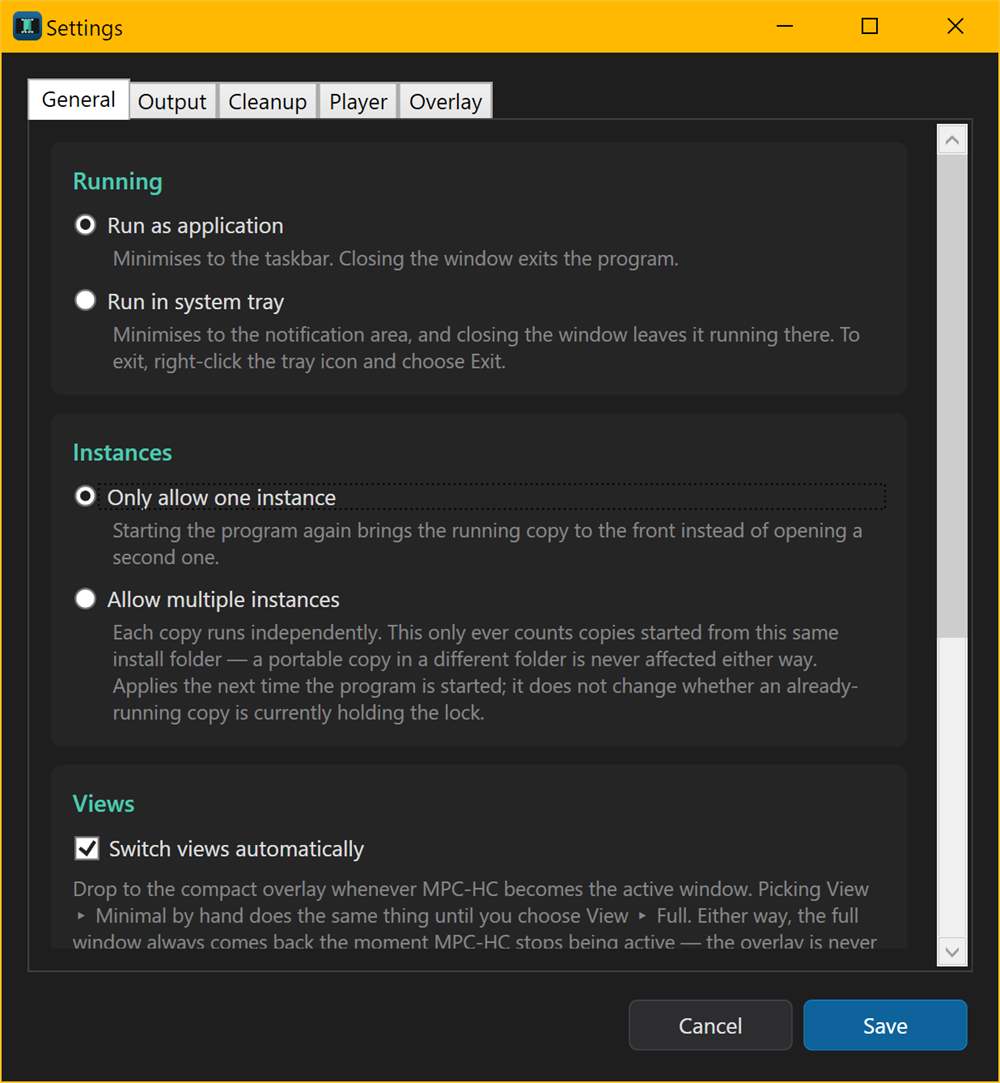
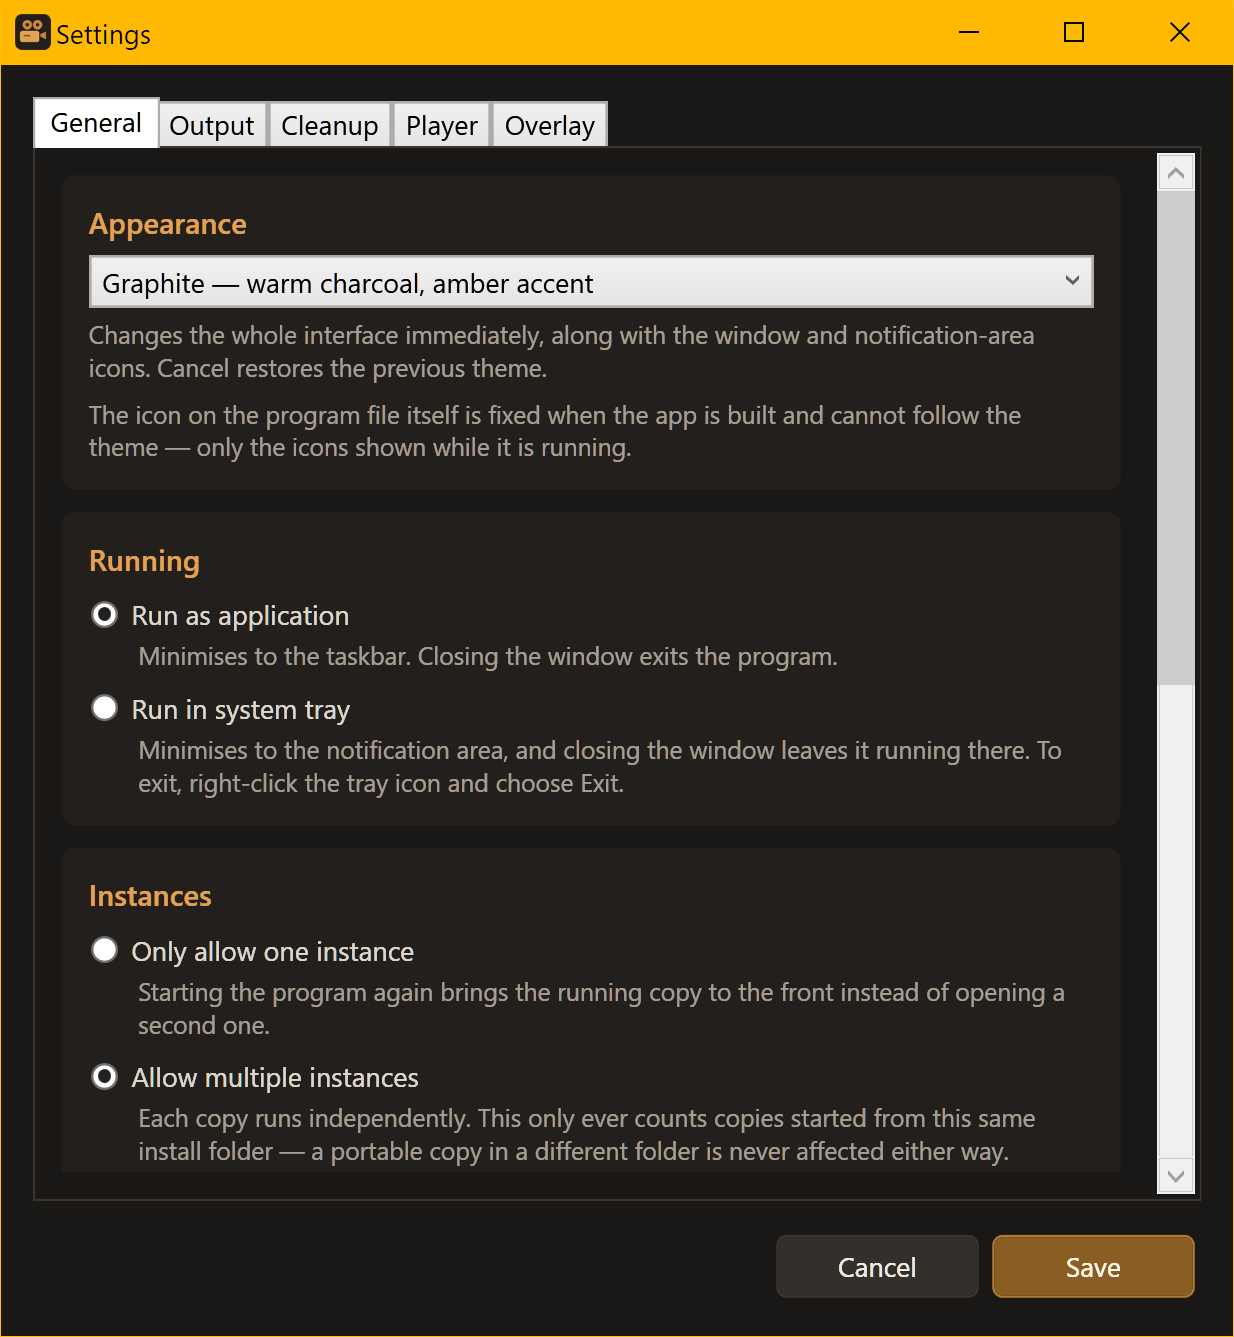
Update the README screenshots for 4.1
All four dated from before the theme system, so they showed the old teal
interface, the previous icon, and none of the 4.0 or 4.1 additions.

Captured from a throwaway install in a temp folder with its own settings and
three minutes of generated test footage, rather than from a working session:
the previous images were taken from real use, and a screenshot destined for a
public README should not be able to carry someone's filenames into it. Each
capture is bounded to a single window's own rectangle for the same reason - an
early attempt padded the crop past the window edge and picked up the desktop
behind it.

The main window shot now shows the audio waveform behind the timeline and the
selected clip's first and last frame, and the settings shot shows the theme
picker; alt text updated to match what is actually in each image.

diff --git a/README.md b/README.md
@@ -5,7 +5,7 @@ Modern rewrite of the original AutoHotkey **MPC-HC Video Editor v2.1**.
 Bookmark ranges in a video playing in MPC-HC, then cut, join, convert or
 extract audio from them with ffmpeg.
 
-![The main window with thirteen bookmark pairs selected, range marks on the timeline, and the total edit length](Assets/screenshots/main-window.png)
+![The main window with five bookmark pairs, the audio waveform and range marks along the timeline, and a preview of the selected clip's first and last frame](Assets/screenshots/main-window.png)
 
 **Fully portable.** Everything the app writes — `settings.json`, `stalls.log` —
 lives beside the executable. Nothing goes to `%APPDATA%` and there is no
@@ -20,7 +20,7 @@ an earlier non-portable install's configuration carries over.
 The compact overlay, for when the video covers the window. It is click-through,
 never takes focus, and lists every bookmark without scrolling:
 
-![The minimal overlay in the corner of a video playing in MPC-HC, listing all thirteen timestamp pairs](Assets/screenshots/minimal-overlay.png)
+![The minimal overlay in the corner of a video playing in MPC-HC, listing every timestamp pair](Assets/screenshots/minimal-overlay.png)
 
 Naming tags — the bracket suffix every output gets, switchable from the menu:
 
@@ -28,7 +28,7 @@ Naming tags — the bracket suffix every output gets, switchable from the menu:
 
 Settings, in five tabs:
 
-<img src="Assets/screenshots/settings.png" alt="The Settings window on the General tab, showing the run mode, single-instance and view-switching options" width="480">
+<img src="Assets/screenshots/settings.png" alt="The Settings window on the General tab, showing the colour theme picker, the run mode and the single-instance options" width="480">
 
 ---
 
